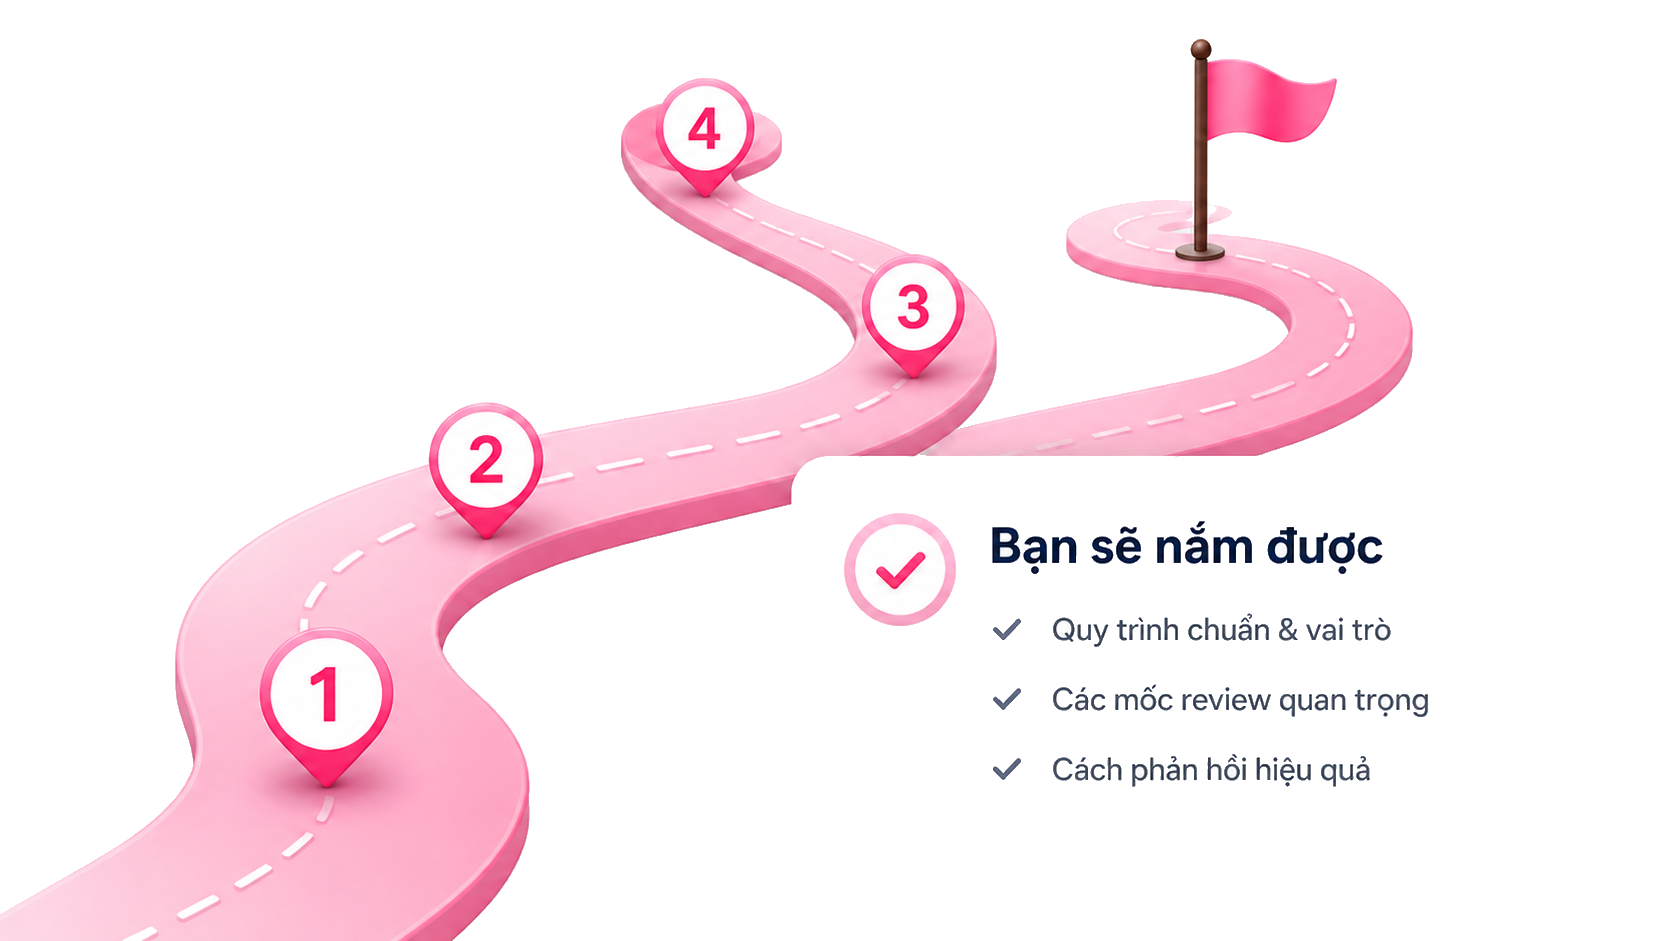
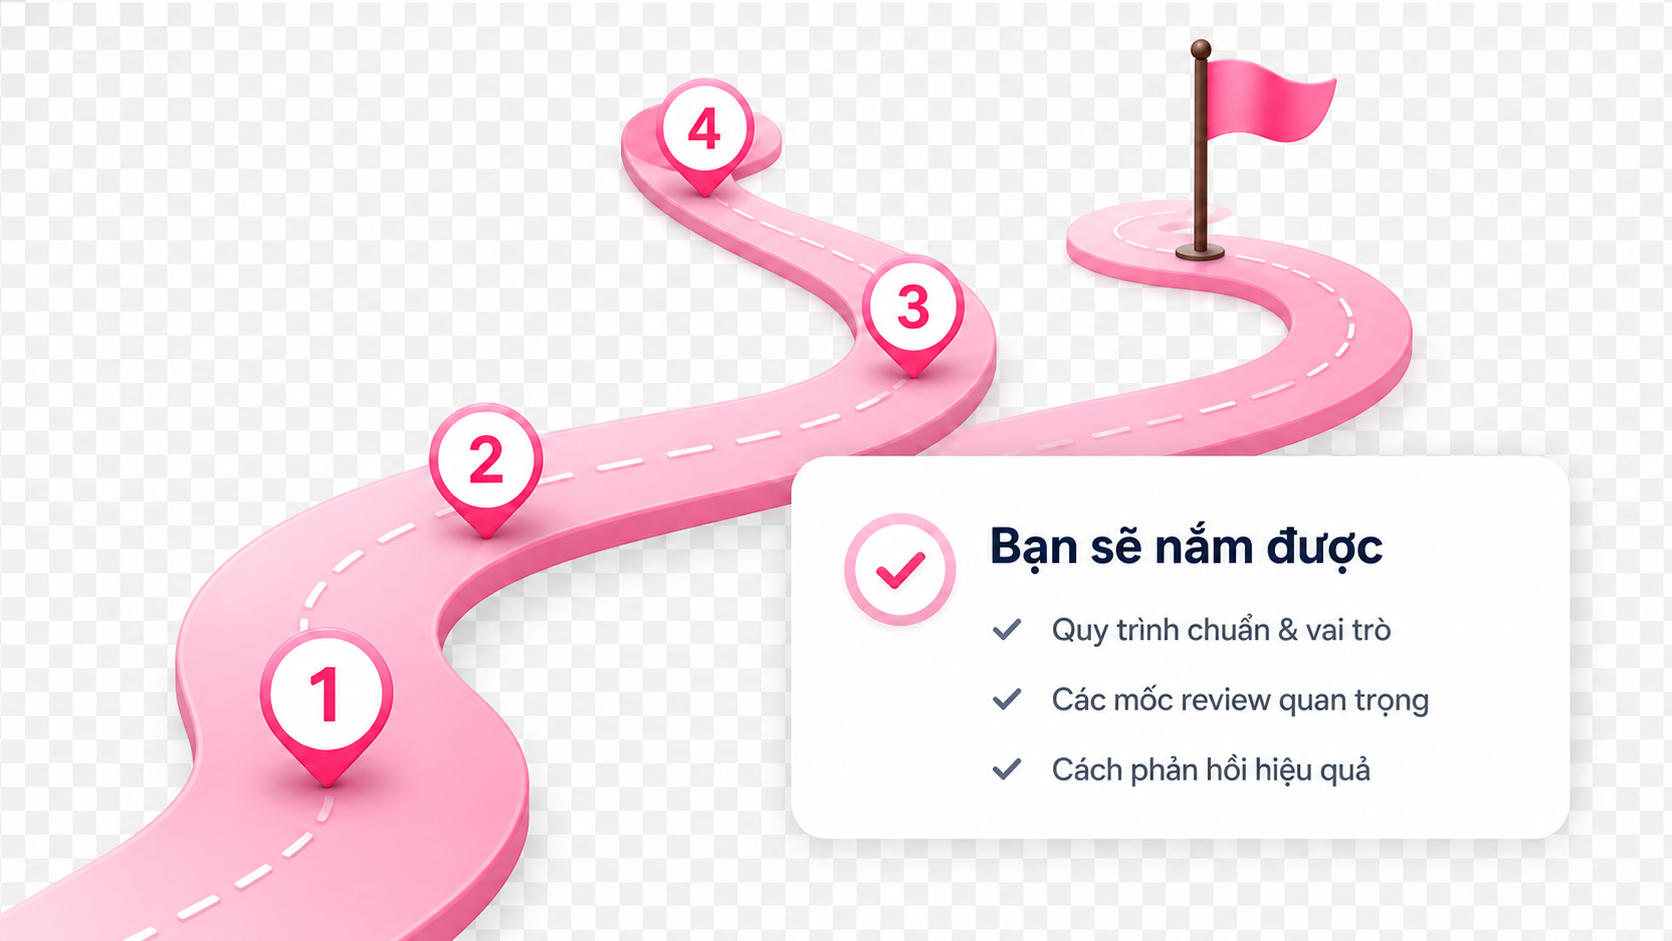
Fix hero image checkerboard via mix-blend-mode: multiply

diff --git a/styles.css b/styles.css
@@ -549,7 +549,7 @@ h1, h2, h3, h4,
   height: auto;
   object-fit: contain;
   display: block;
-  filter: drop-shadow(0 16px 40px rgba(165, 0, 100, 0.10));
+  mix-blend-mode: multiply;
 }
 
 .hero-card-stack {
